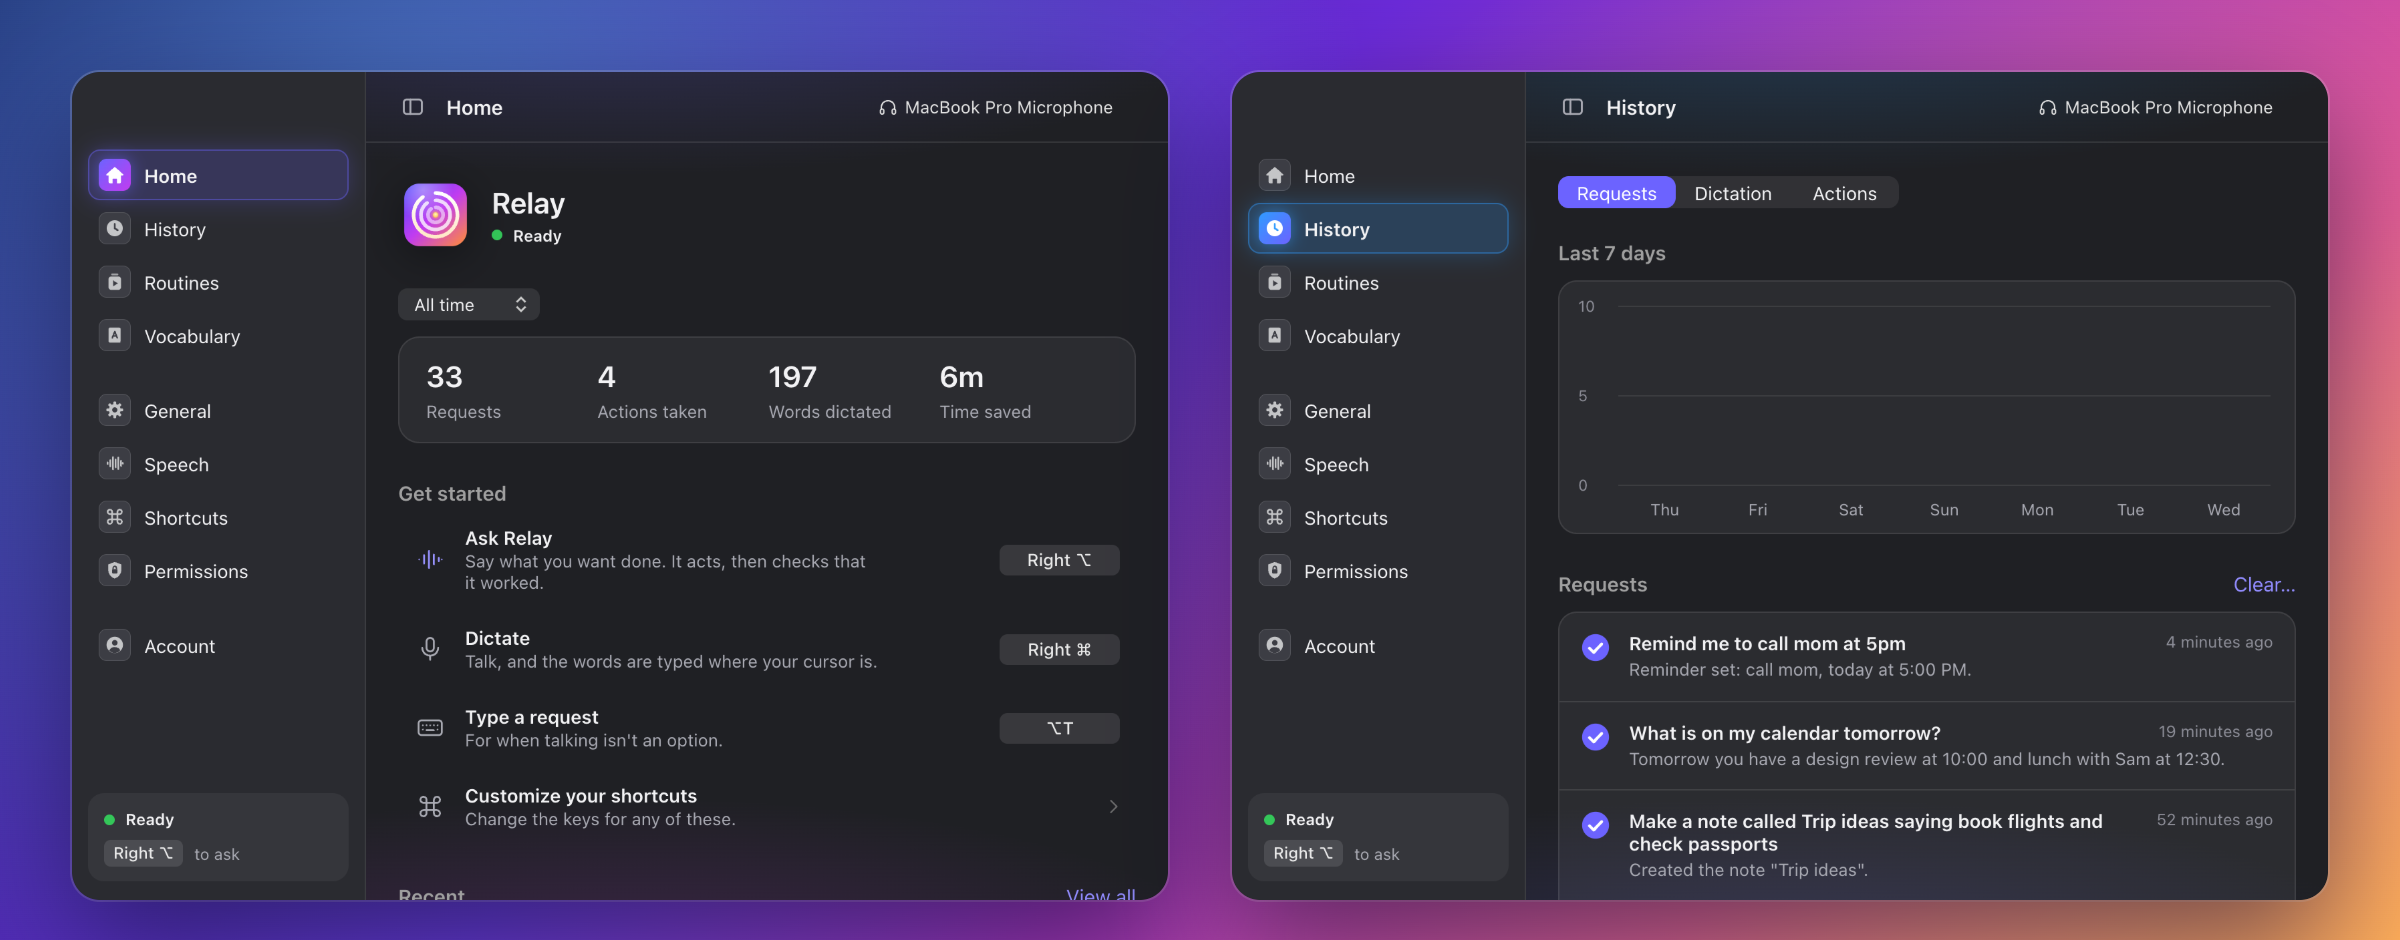
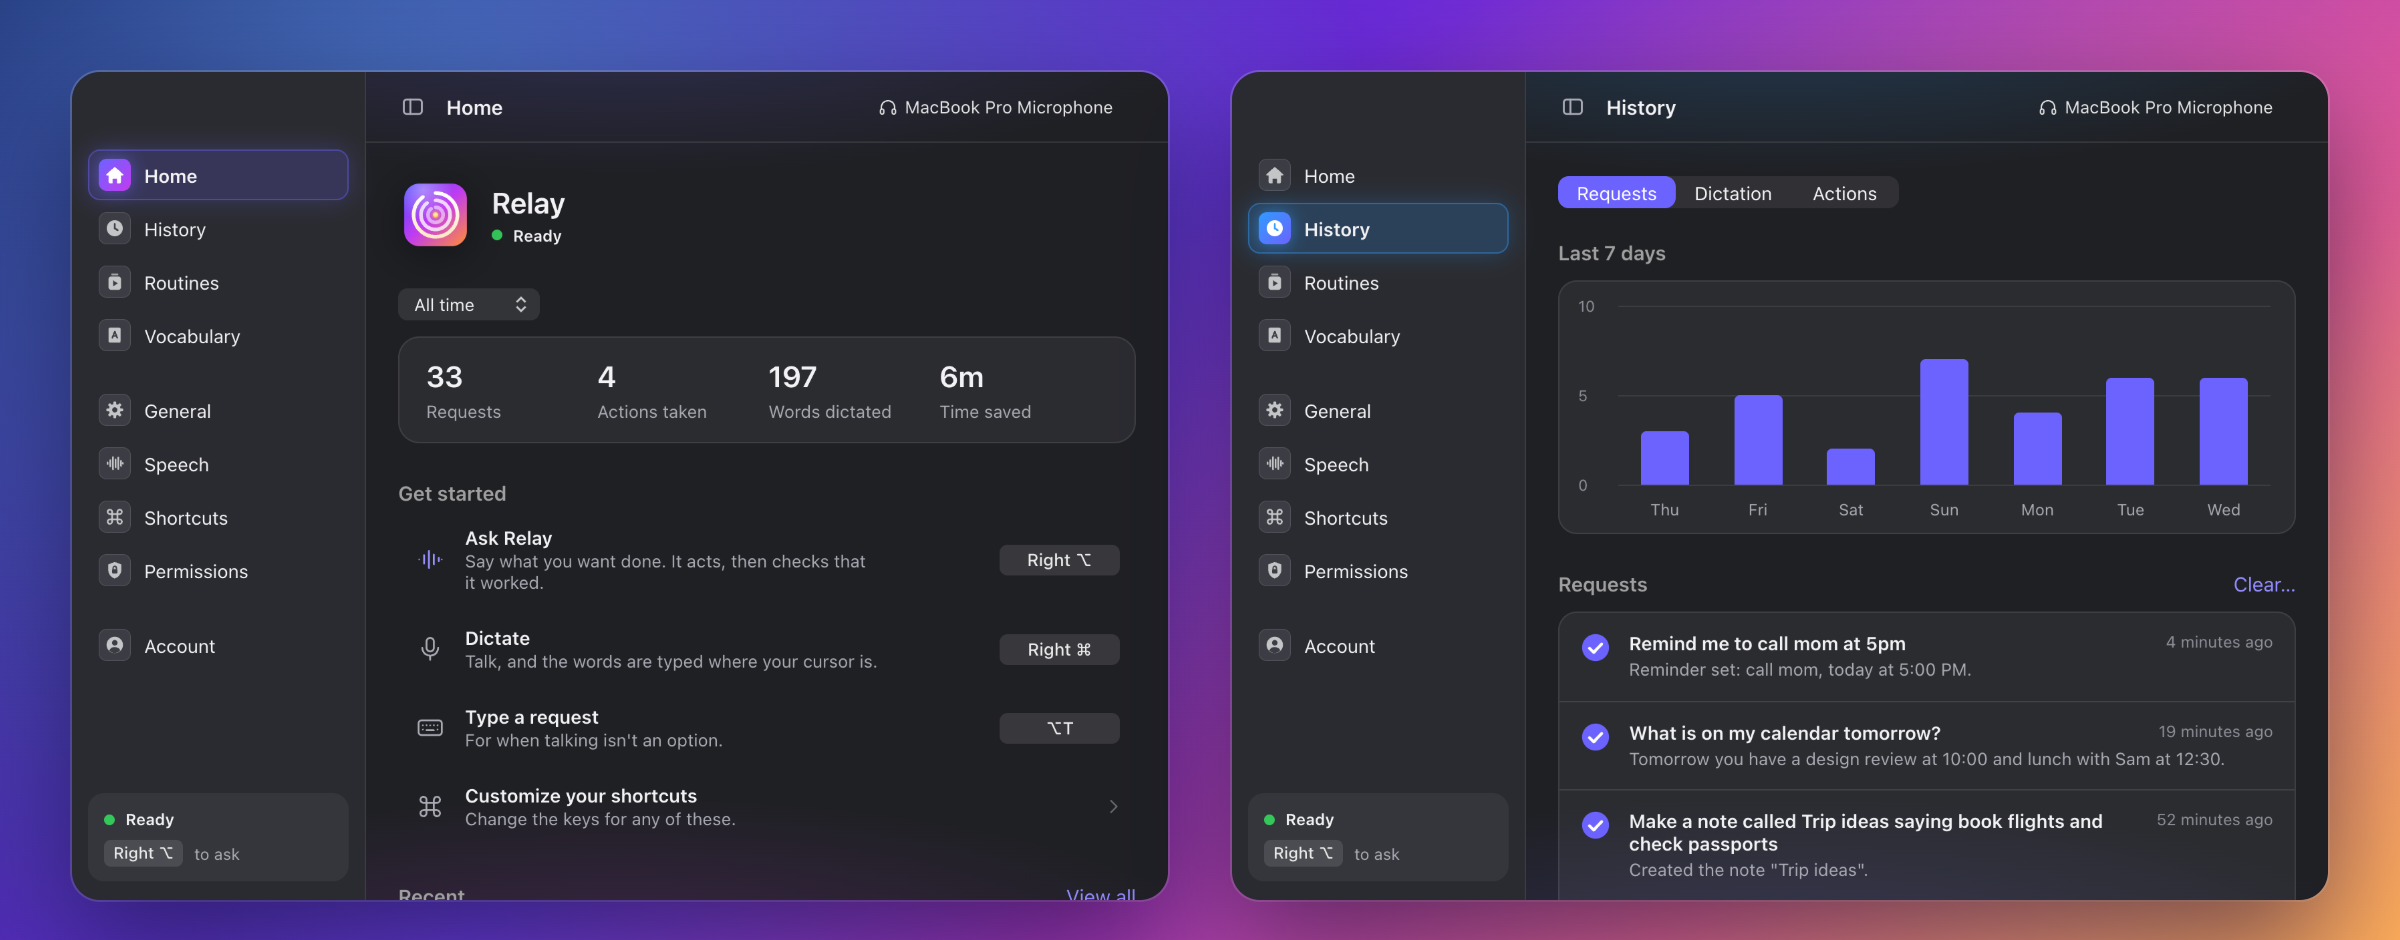
Fix history chart layout lost in the restyle
A selector replacement overwrote the .chart .bars container rule, so the
history bars did not show. Restore it and give the bars the single accent
colour. Screenshots and README images regenerated.

Changed region(s): [[0.6562, 0.3702, 0.9375, 0.5245]]

diff --git a/src/renderer/styles.css b/src/renderer/styles.css
@@ -148,9 +148,9 @@ textarea.field { height: auto; padding: 8px 10px; }
 .chart .grid { position: absolute; left: 44px; right: 18px; top: 18px; bottom: 36px; }
 .chart .gl { position: absolute; left: 0; right: 0; height: 1px; background: rgba(255, 255, 255, 0.08); }
 .chart .gy { position: absolute; left: -30px; color: var(--dim); font-size: 11.5px; transform: translateY(-50%); }
-.chart .bar { width: 36px; background: var(--accent); border-radius: 4px 4px 0 0; }
+.chart .bars { position: absolute; left: 44px; right: 18px; top: 18px; bottom: 36px; display: flex; align-items: flex-end; gap: 0; }
 .chart .col { flex: 1; display: flex; flex-direction: column; align-items: center; justify-content: flex-end; height: 100%; }
-.chart .bar { width: 36px; background: linear-gradient(var(--pc), var(--pc2)); border-radius: 4px 4px 0 0; }
+.chart .bar { width: 36px; background: var(--accent); border-radius: 4px 4px 0 0; }
 .chart .xl { position: absolute; bottom: 10px; color: var(--muted); font-size: var(--fs-small); transform: translateX(-50%); }
 .tabs { display: inline-flex; background: rgba(255, 255, 255, 0.08); border-radius: 8px; padding: 0; margin-bottom: 24px; }
 .tabs button { padding: 0 14px; height: 24px; border-radius: 8px; font-size: var(--fs-row); min-width: 81px; }
